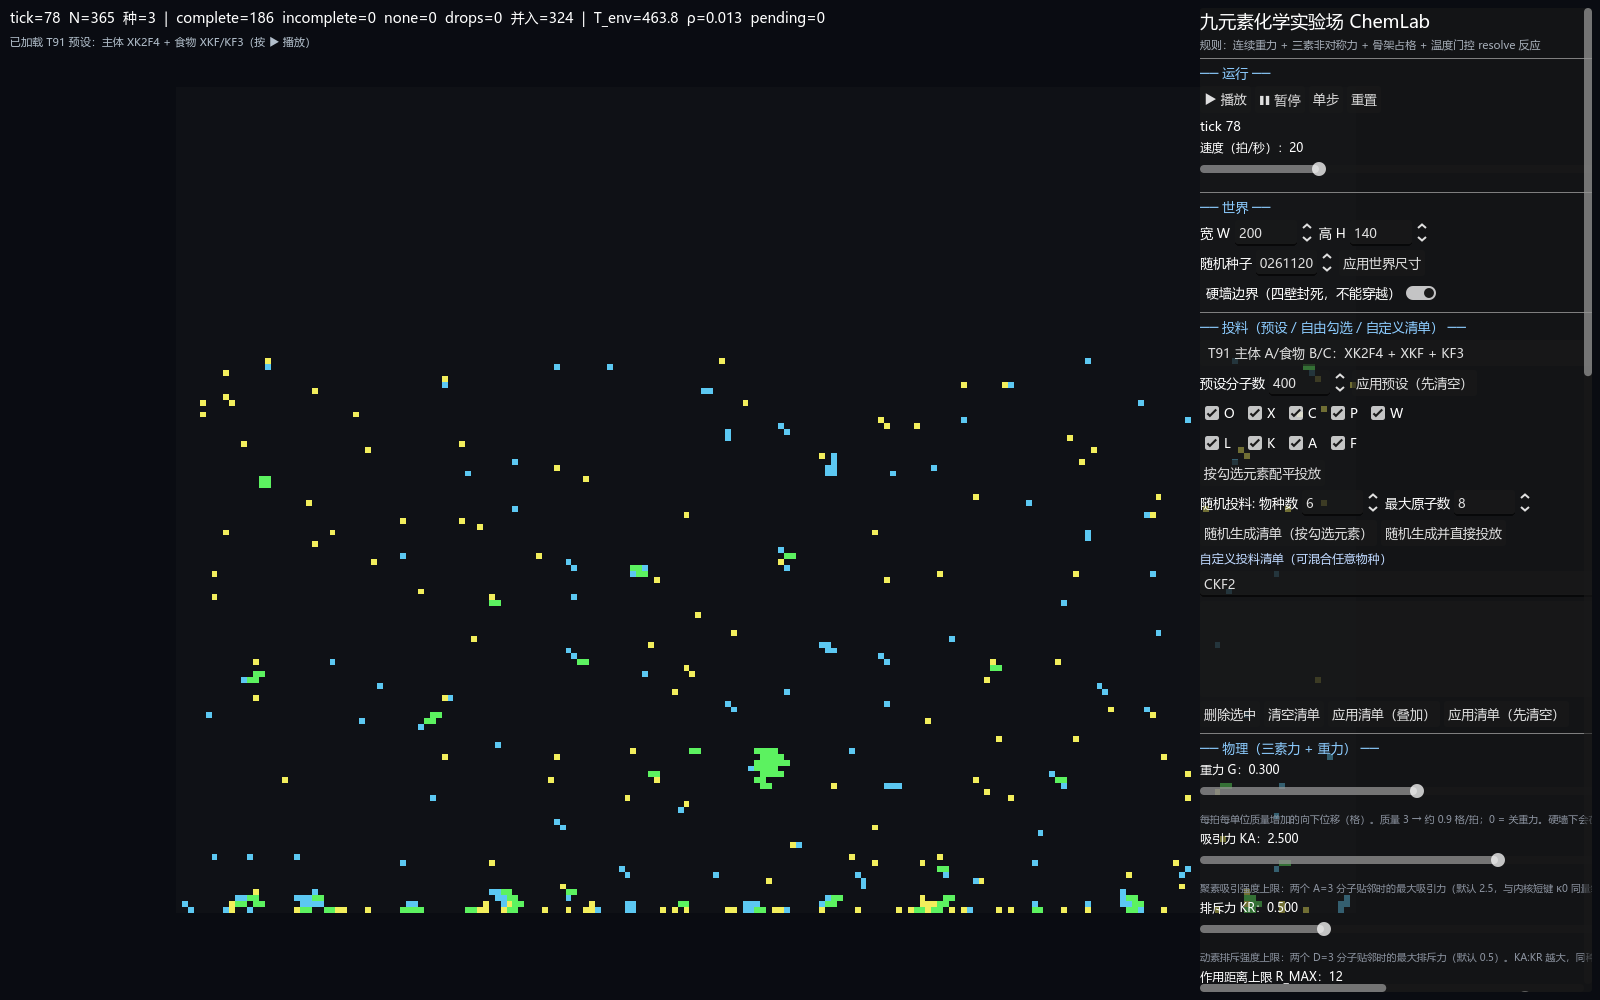
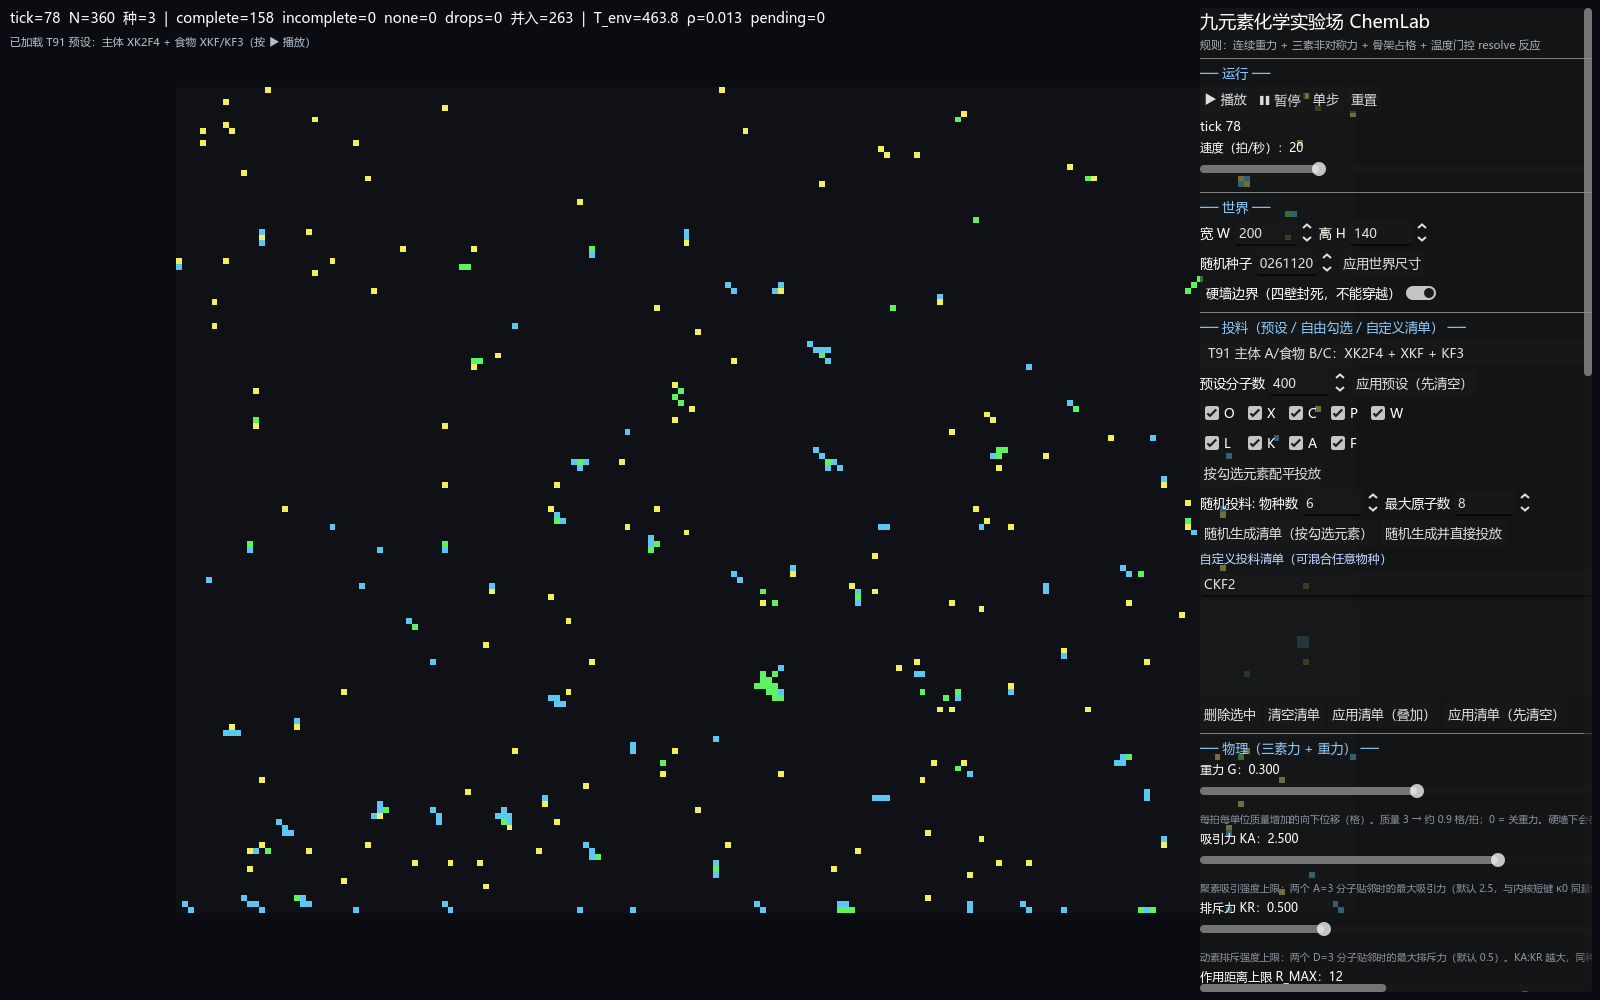
ChemLab: 修复多元素随机投料卡死/崩溃
- sim: _alive_count O(1)（alive 计数）；每拍反应预算 budget=max_react-在途；分子信息本地计算 + 批量预热（去同步阻塞）；epoch 丢弃 reset 前旧回复；local_T 后置于 p_react 骰子
- kernel: 新增 molecules 批量查询 op
- main: 投料前批量预热 info；max_react 默认 120
- docs/README: 根因与修复说明；preview 更新

diff --git a/godot/chem_lab/kernel_server.py b/godot/chem_lab/kernel_server.py
@@ -203,6 +203,17 @@ def _finalize_rows(rows, n_mol, max_species=None):
     return rows
 
 
+def op_molecules(req):
+    """批量取多个分子式的信息：{"formulas": [...]} -> {"infos": {f: info}}"""
+    out = {}
+    for f in (req.get("formulas") or []):
+        try:
+            out[str(f)] = molecule_info(str(f))
+        except Exception:
+            out[str(f)] = None
+    return {"infos": out}
+
+
 def op_feed(req):
     """按元素子集 + IPF 生成投料：[{formula,count}, ...]"""
     elements = req.get("elements") or list(ORDER)
@@ -294,7 +305,7 @@ def op_random_feed(req):
 
 
 HANDLERS = {"molecule": op_molecule, "resolve": op_resolve, "f": op_f,
-            "feed": op_feed, "random_feed": op_random_feed, "ping": lambda r: {"pong": True},
+            "feed": op_feed, "molecules": op_molecules, "random_feed": op_random_feed, "ping": lambda r: {"pong": True},
             "stats": lambda r: {"catalog": len(CATALOG), "f_cache": len(_F_CACHE),
                                 "mol_cache": len(_MOL_CACHE)}}
 

diff --git a/godot/chem_lab/docs/CHEMLAB_PARAMS.md b/godot/chem_lab/docs/CHEMLAB_PARAMS.md
@@ -263,3 +263,39 @@ resolve → complete / incomplete / none
 
 `{"op":"feed","elements":[...],"n_mol":N,"natoms_min":2,"natoms_max":8}` →
 `{"ok":true,"data":{"rows":[{"formula":..,"count":..}],"pool":P}}`（`rows` 与 `feed` 同义，旧客户端只读 `feed`）。
+
+
+---
+
+## 附：2026-11-23 修复 —— 多元素随机投料卡死/崩溃
+
+现象：用"随机生成并直接投放"投 5~9 元素混合料后，画面卡死（几乎无响应），偶发崩溃。
+
+根因（四条叠加）：
+
+1. `_alive_count()` 是 O(N) 全表扫描，却被 `place()` / `remove()` 每次调用 → 每次反应（2 次 remove + 若干 place）× O(N)，几百次反应/拍时 CPU 爆掉。
+2. `_react_phase()` 每拍最多发 **600** 个异步 `resolve`；Python 侧车按顺序逐个算（每个 1~4ms）→ 单拍阻塞 0.6~2.4s。
+3. 反应产物的分子式未见过时，`info()` 会做**同步**内核调用（`molecule`）：在几十个 resolve 排队时，这一同步调用要等整条连接排空，主线程被阻塞数秒（这是"卡死"的主因）。
+4. `reset()` 后旧的在途 resolve 回复仍会到达，id 被新世界复用 → 打在新分子上，可能造成网格错乱/崩溃。
+
+修复：
+
+- 新增 `alive` 计数，`_alive_count()` 变 O(1)（10~100× 提升）。
+- 反应预算：`budget = max_react(默认 120) − 在途请求数`，`<=0` 时就跳过本拍反应；每拍不再无限堆积。
+- **分子信息本地计算**：`_local_info(f)` 用分子式直接算 natoms/k/mass/state/temp/A/D/Q/ratt/rrep/heat/c（与内核对齐），`info()` 不再走同步 TCP；投料前用新增的内核批量 op `molecules` 一次性预热精确 k（缓存）。
+  - 新协议：`{"op":"molecules","formulas":["CKF2","XK2F4"]}` → `{"ok":true,"data":{"infos":{...}}}`。
+- `reset()` 递增 `epoch` 并清空客户端 `_pending`；异步回复携带 `gen`，不匹配则丢弃。
+- `local_T()`（25 格扫描）挪到便宜的 `p_react` 骰子之后，减少无效扫描。
+
+参数变化：
+
+| 参数 | 旧 | 新 |
+|---|---|---|
+| `max_react`（每拍最多反应对） | 600 | **120**（0~2000 可调；卡顿时降到 40） |
+| 反应在途上限 | 96（pending 背压） | 96 保留，但同时受 per-tick 预算约束 |
+| 分子信息获取 | 同步 TCP | 本地计算 + 投料前批量预热 |
+
+自检：
+
+- `--selftest`（T91 预设，240 拍）：**11.7 ms/拍**（修复前 21.5），无脚本错误。
+- `--selftest --stress`（9 元素随机 800 分子，240 拍）：**11.2 s 跑完 / 46.7 ms/拍**，无卡死、无崩溃、无脚本错误；修复前该场景直接卡住（>10 分钟）。

diff --git a/godot/chem_lab/README.md b/godot/chem_lab/README.md
@@ -165,3 +165,10 @@ godot/chem_lab/
 - 新增**按勾选元素随机投料**：可设物种数与最大原子数，先看清单或直接投放。
 - 投料总量精确归一到「预设分子数」；清单支持手工加减、叠加/先清空投放。
 - 修复：预设 4 号之后拿不到投料（内核返回 `feed`、客户端读 `rows` 的键不一致）；以及同步调用与异步 resolve 回复串号（`call_sync` 现在按 id 等待自己的回复）。
+
+
+## 修复（2026-11-23 深夜）：多元素随机投料卡死
+
+- 根因：`_alive_count()` O(N) 被热路径调用、每拍最多 600 个异步 resolve、产物分子式未见过时 `info()` 同步调用内核（阻塞主线程）、reset 后旧回复串到新分子。
+- 修复：alive 计数 O(1)、每拍反应预算（默认 120，可调）、分子信息本地计算 + 批量 `molecules` 预热、epoch 丢弃旧回复、local_T 后置。
+- 验证：T91 预设 11.7 ms/拍；**9 元素随机 800 分子 240 拍 11.2 s 跑完**（修复前 >10 分钟卡死）。
